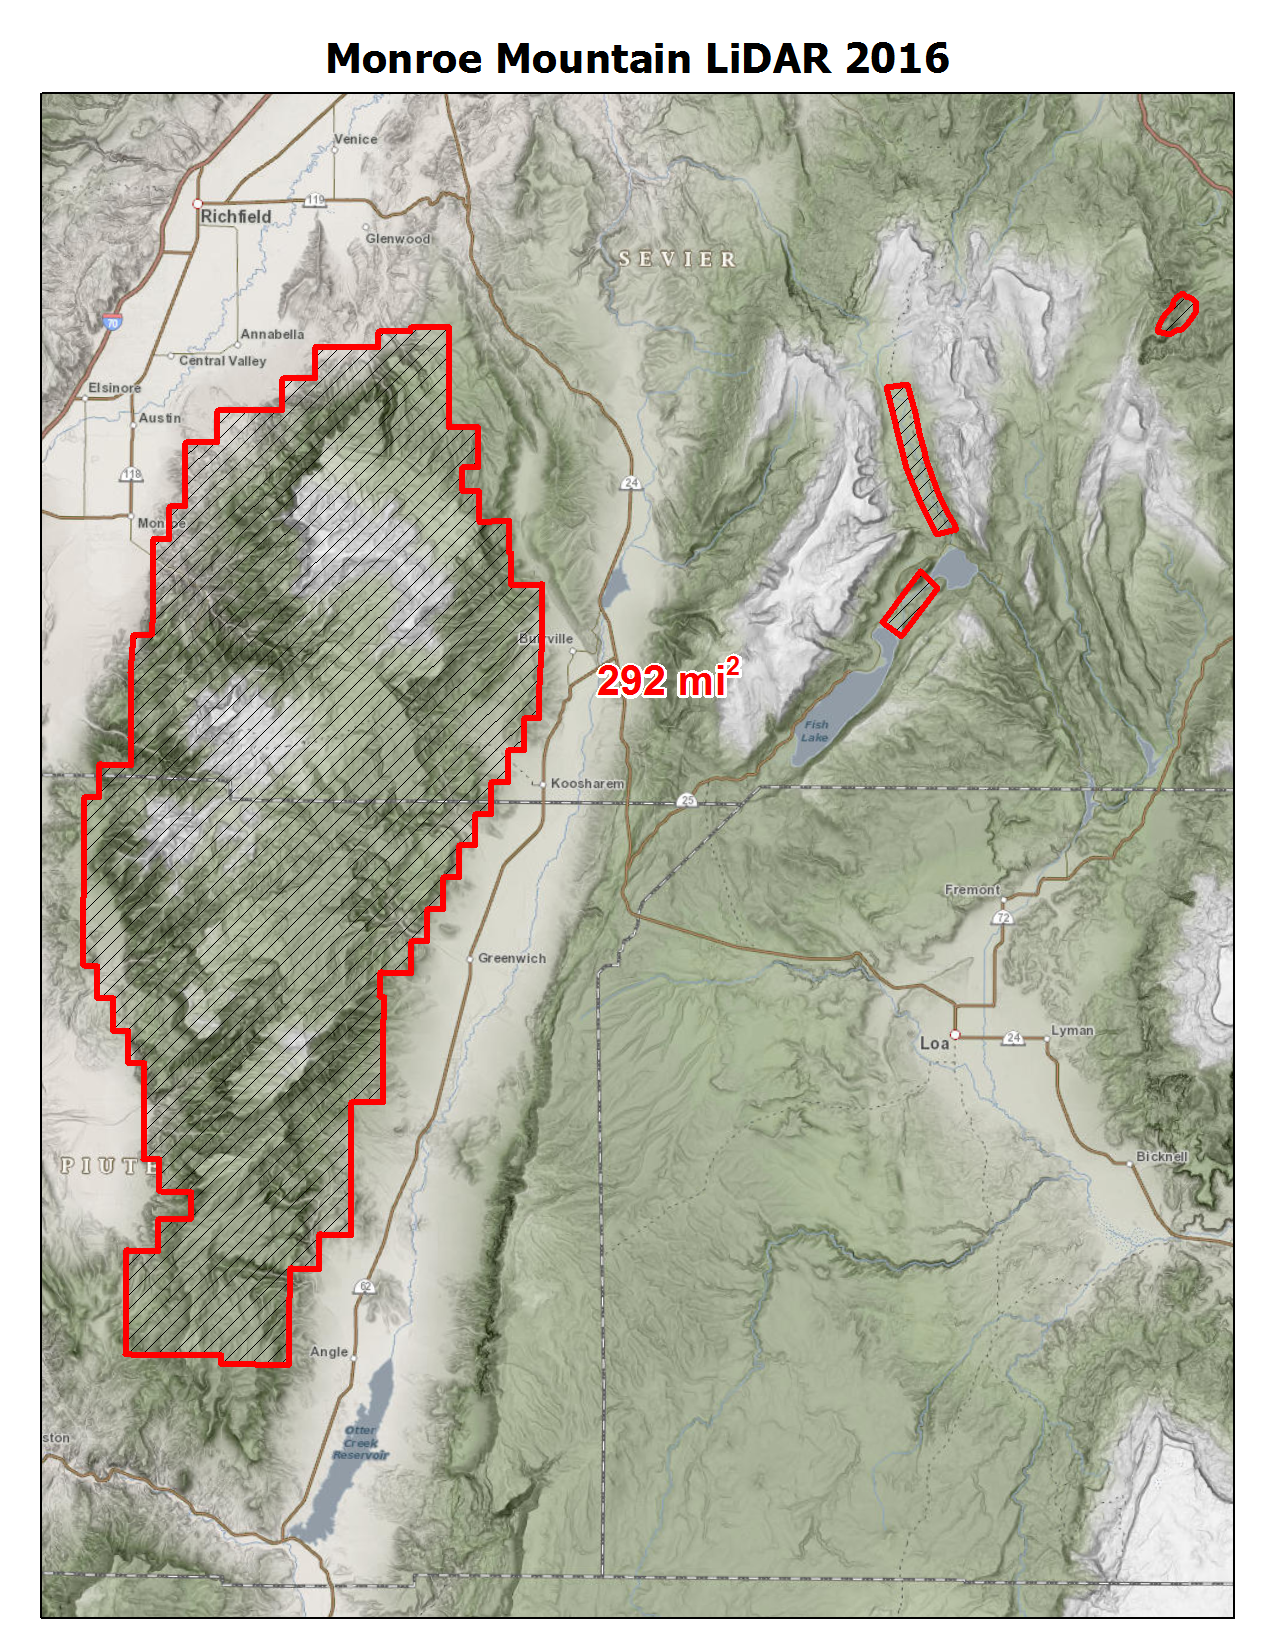
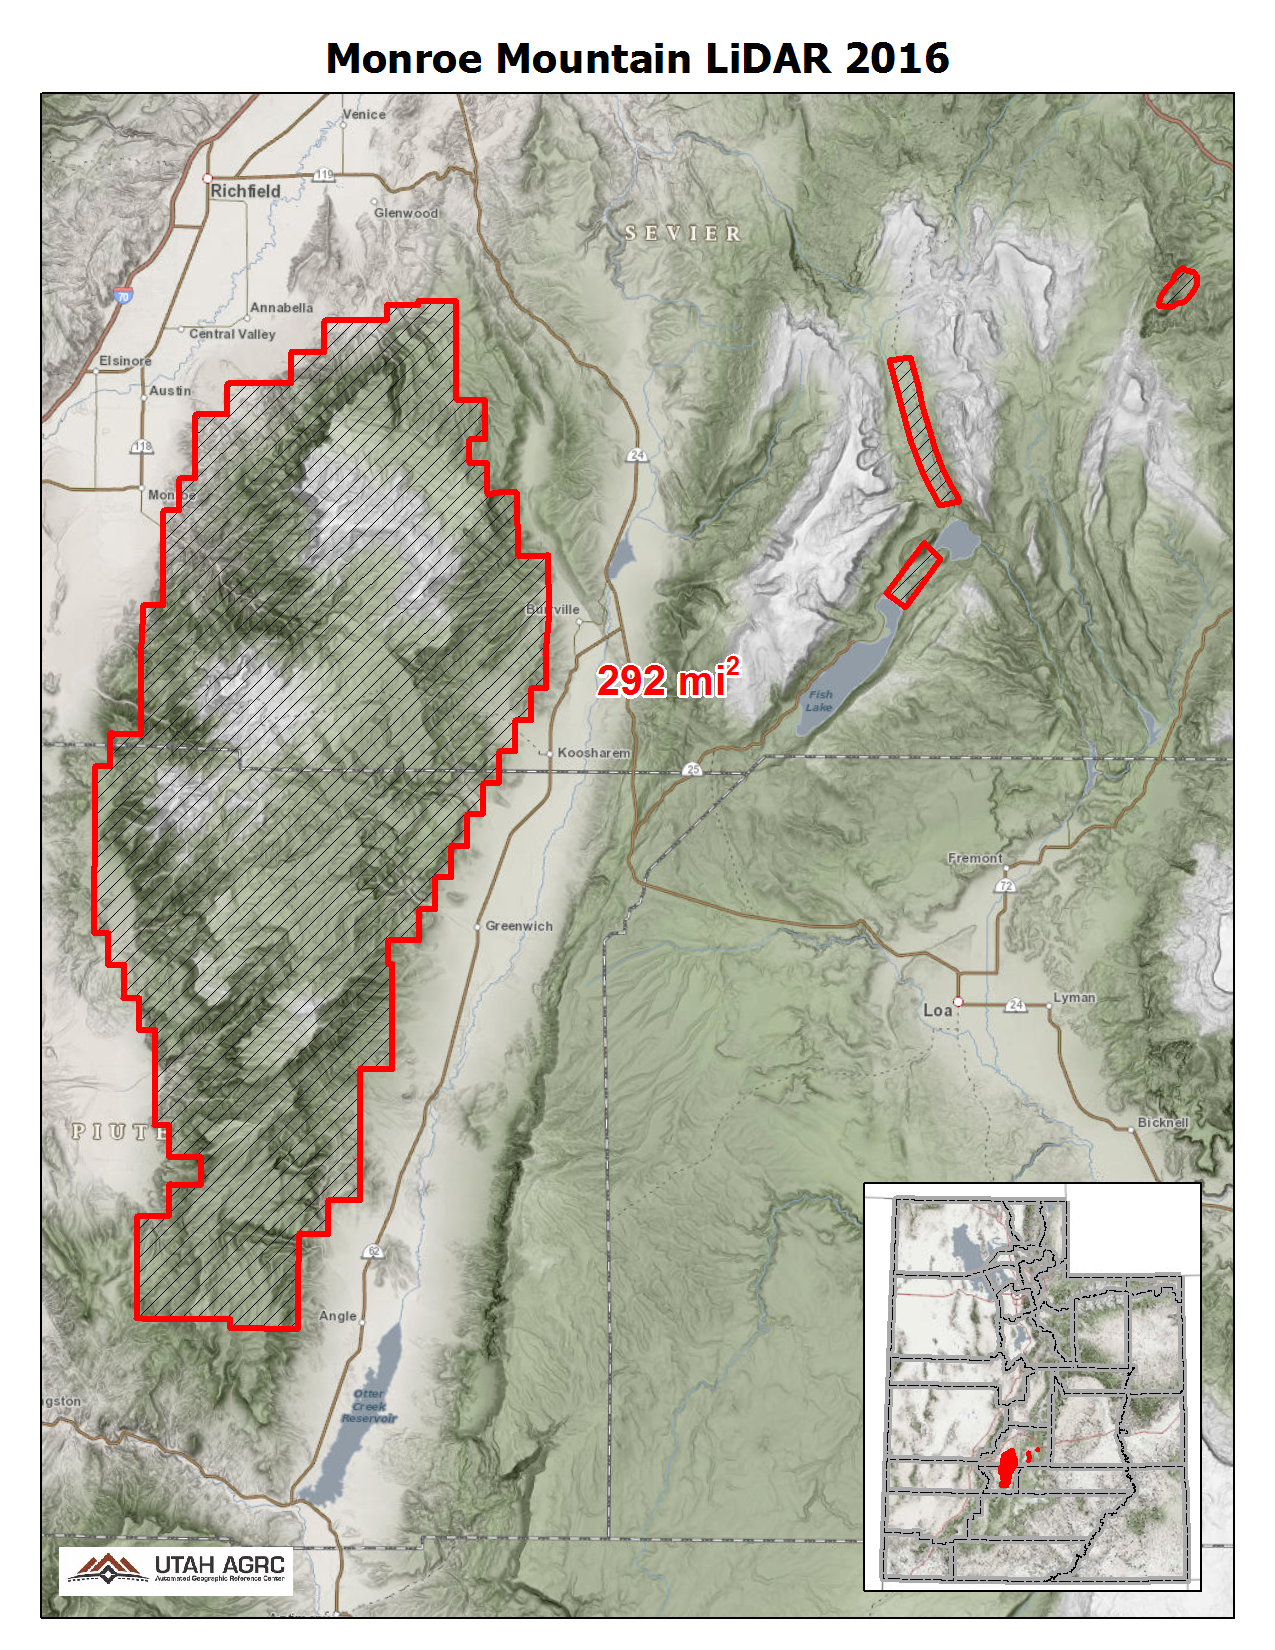
replace and add images to Monroe lidar page (#477)
* delete original overview image

* add new image

and and and additional version of it small

* add project area image

hoping for placement on the right side of the page and to spawn a larger image

diff --git a/data/elevation-terrain-data/2016-lidar-monroe-mtn/index.md b/data/elevation-terrain-data/2016-lidar-monroe-mtn/index.md
@@ -25,6 +25,8 @@ tags:
   <img src="{{ "/images/lidar_monroe.PNG" alt="Monroe Sample" | prepend: site.baseurl }}"/>
 </div>
 
+[![Project area map]({{"/images/lidar_monroe_coverage_sm.png" | prepend:site.baseurl}} "click for map")]({{"/images/lidar_monroe_coverage.png" | prepend:site.baseurl}}){:.inline-text-right}
+
 During the Summer of 2016 AGRC and the U.S. Forest Service acquired [292 square miles]({{ "/images/lidar_monroe_coverage.png/" | prepend: site.baseurl }}) of 8 points per meter Quality Level 1 LiDAR on Monroe Mountain in central Utah. The acquisition took place with leaf-on conditions to model the forest canopy in addition to ground elevations. The .5 meter resolution bare earth DEMs and first-return/highest-hit DSM in .tif format have a 10.0cm vertical RMSE accuracy and are available for download. The LAS classified point cloud are also available [by request](mailto:rkelson@utah.gov) and eventually from [Open Topography](http://www.opentopography.org/). This elevation data has a UTM NAD83 (2011) zone 12 north meter NAVD88(GEOID12) projection.
 
 <ul class="dotless">
